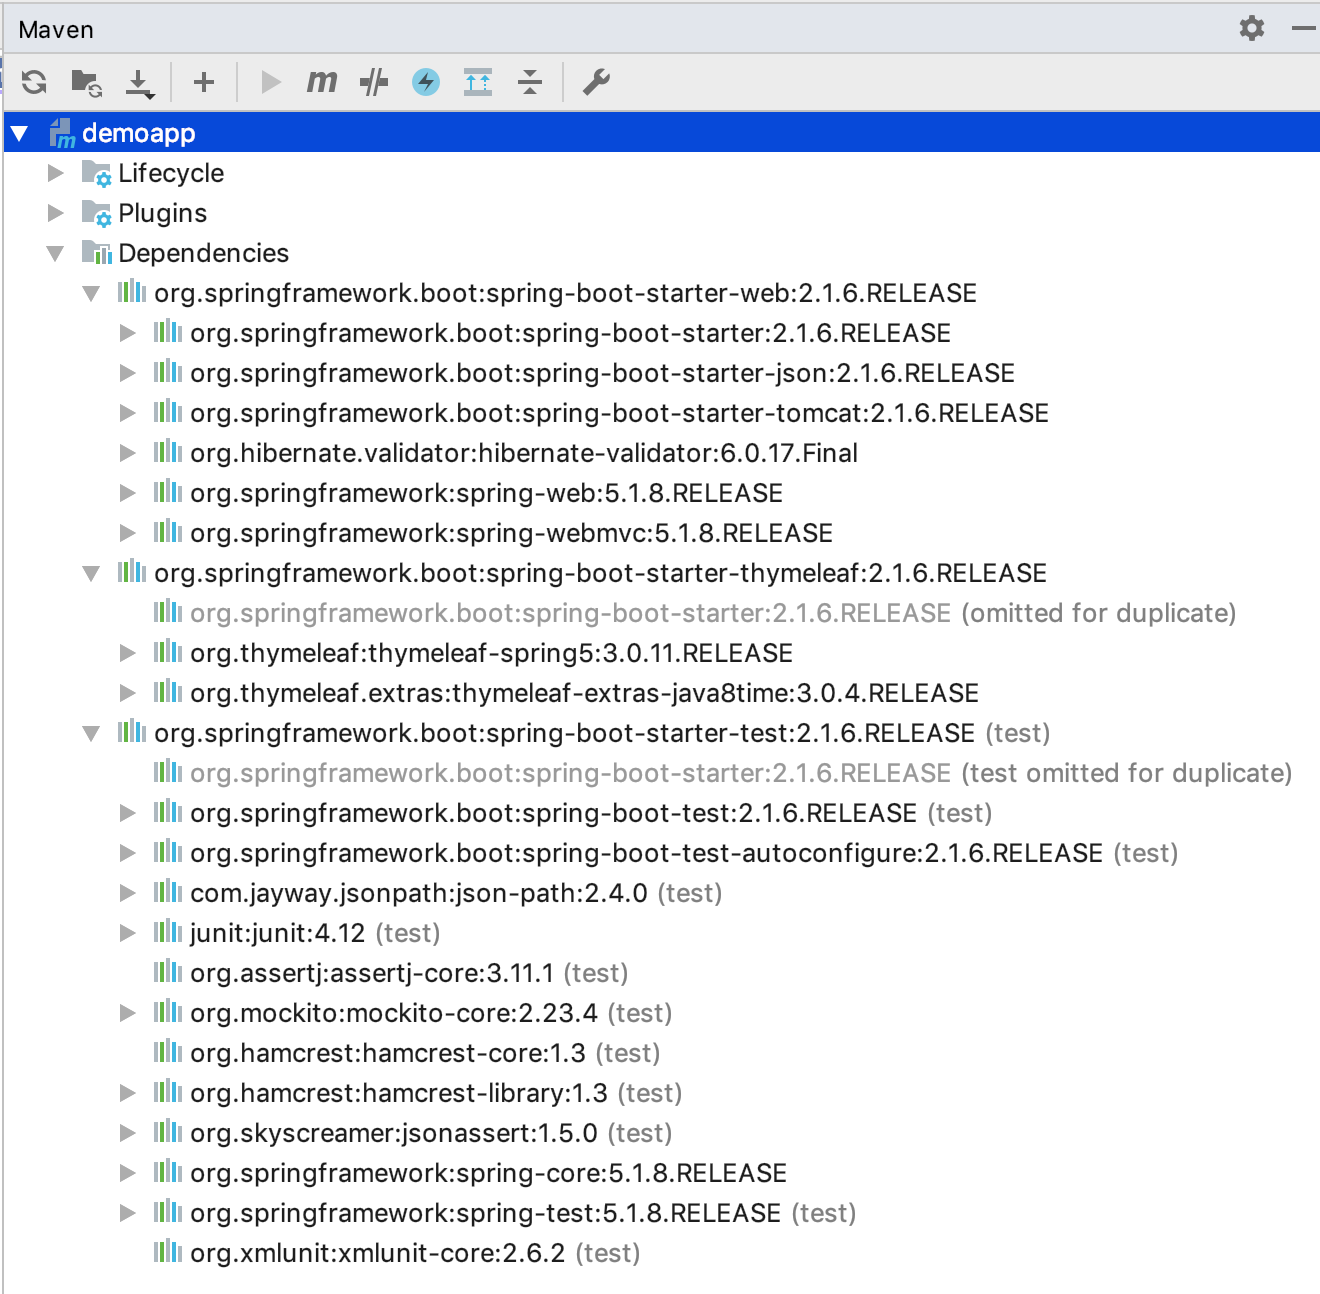
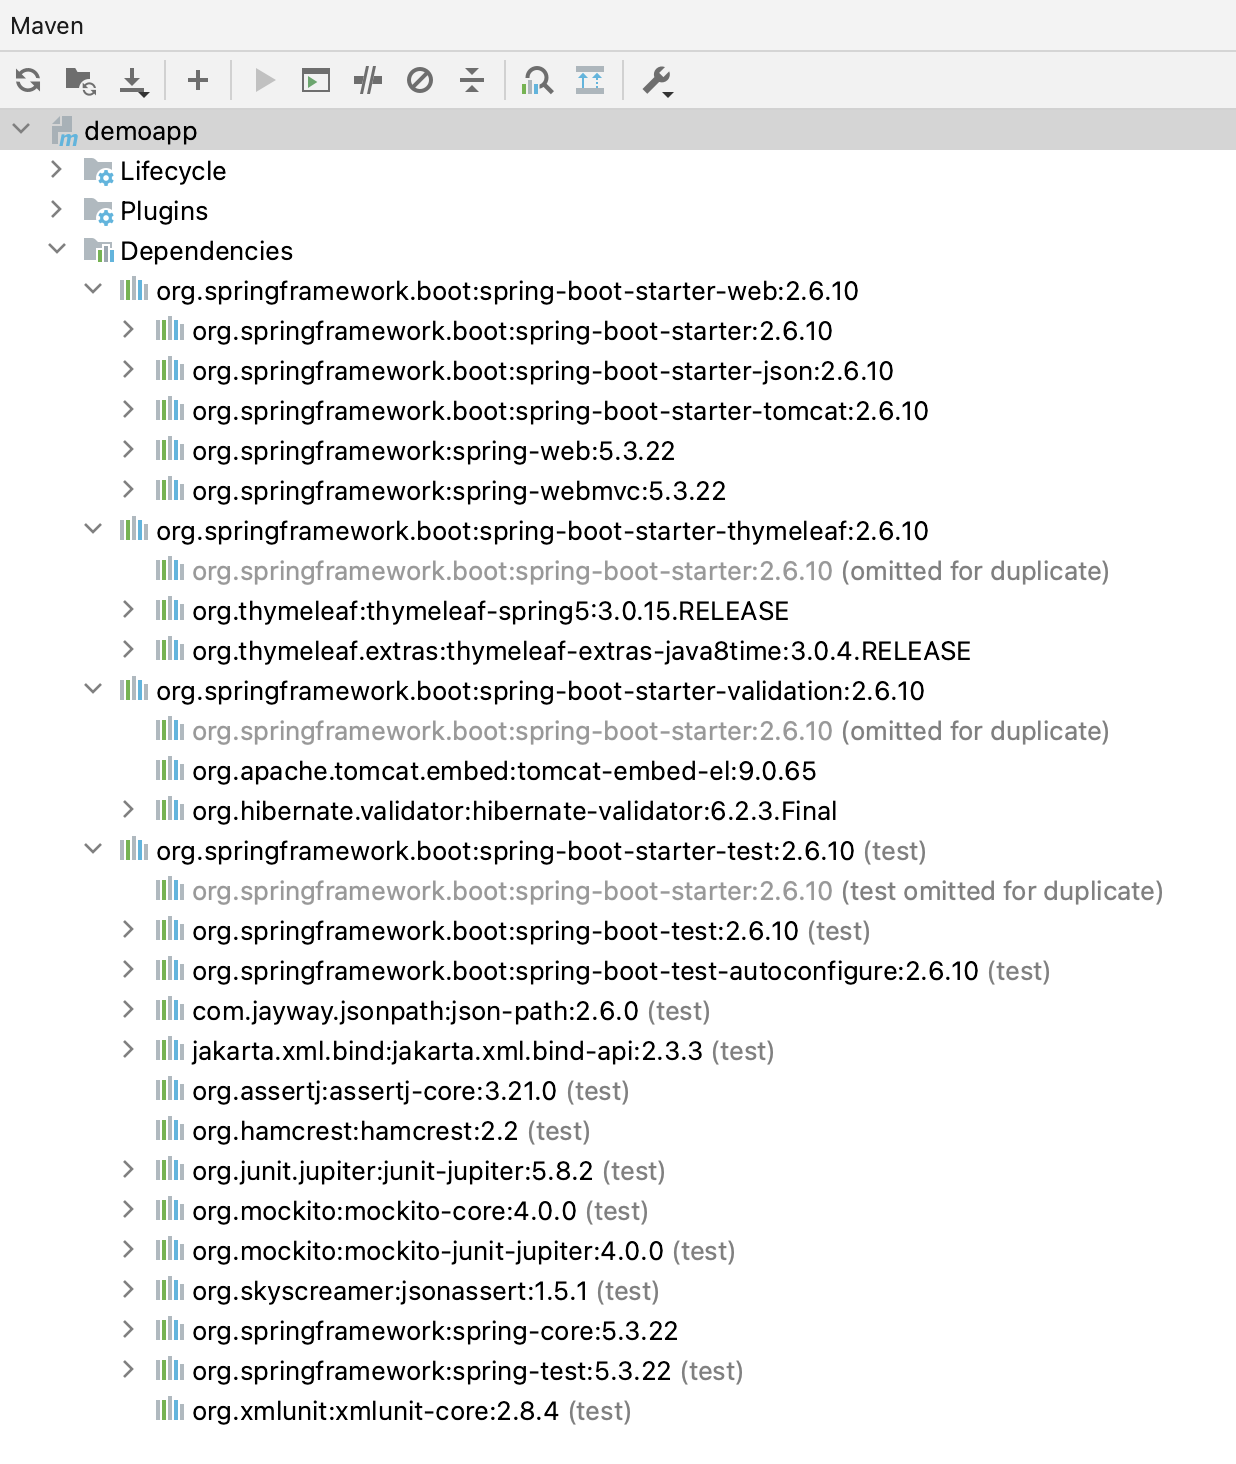
Actualizada la práctica 1

Changed region(s): [[0.0, 0.0, 1.0, 0.9892], [0.9223, 0.0, 1.0, 0.0309]]

diff --git a/docs/01-intro-spring-boot/intro-spring-boot.md b/docs/01-intro-spring-boot/intro-spring-boot.md
@@ -1,8 +1,8 @@
 # Introducción a Spring Boot #
 
-Vamos a trabajar con la versión 2.4.8 de Spring Boot. Se puede
+Vamos a trabajar con la versión 2.6.10 de Spring Boot. Se puede
 consultar toda la documentación oficial sobre esta versión en [este
-enlace](https://docs.spring.io/spring-boot/docs/2.4.8/reference/html/index.html). 
+enlace](https://docs.spring.io/spring-boot/docs/2.6.10/reference/html/index.html). 
 
 ## 1. Aplicación ejemplo ##
 
@@ -65,6 +65,7 @@ siguientes páginas:
 - [http://localhost:8080](http://localhost:8080)
 - [http://localhost:8080/saludo/Pepito](http://localhost:8080/saludo/Pepito)
 - [http://localhost:8080/saludoplantilla/Pepito](http://localhost:8080/saludoplantilla/Pepito)
+- [http://localhost:8080/saludoform](http://localhost:8080/saludoform)
 
 ## 3. Desarrollo y ejecución con IntelliJ ##
 
@@ -74,18 +75,15 @@ pago, es posible [obtener una licencia de
 estudiante](https://www.jetbrains.com/shop/eform/students) usando la
 dirección de correo de la UA.
 
-Para importar un proyecto Spring Boot en IntelliJ basta con
-importar el directorio donde se encuentre el fichero `pom.xml`. Se
+Para abrir un proyecto Spring Boot en IntelliJ basta con
+abrir el directorio donde se encuentre el fichero `pom.xml`. Se
 puede hacer desde la pantalla de bienvenida de IntelliJ con la opción
-**Import Project** o usando la opción **File > New > Project from
-Existing Sources**. Aparecerá la pantalla de importación y
-seleccionamos el importador **Maven**:
+**Open** o usando la opción **File > Open"** o **"File > New > Project from
+Existing Sources**. 
 
-<img src="imagenes/import-intellij.png" width="600px" />
+IntelliJ abre el proyecto correctamente:
 
-IntelliJ importa el proyecto correctamente:
-
-<img src="imagenes/proyecto-desplegado.png" width="300px"/>
+<img src="imagenes/proyecto-desplegado.png" width="350px"/>
 
 Podemos ejecutarlo abriendo un terminal y lanzándolo con Maven. O
 también desde la **configuración de Run** que ha creado IntelliJ al
@@ -105,8 +103,7 @@ aplicación, volverla a lanzar, etc:
 Estructura de directorios típica de los proyectos Java construidos con
 Maven:
 
-<img src="imagenes/estructura-app.png" width="300px"/>
-
+<img src="imagenes/proyecto-desplegado.png" width="350px"/>
 
 El fichero `pom.xml` declara las dependencias. Spring Boot proporciona
 _starters_ que agrupan un conjunto de dependencias comunes.
@@ -115,9 +112,9 @@ _starters_ que agrupan un conjunto de dependencias comunes.
 
 ```xml
 <?xml version="1.0" encoding="UTF-8"?>
-<project xmlns="http://maven.apache.org/POM/4.0.0" 
+<project xmlns="http://maven.apache.org/POM/4.0.0"
          xmlns:xsi="http://www.w3.org/2001/XMLSchema-instance"
-         xsi:schemaLocation="http://maven.apache.org/POM/4.0.0 
+         xsi:schemaLocation="http://maven.apache.org/POM/4.0.0
          https://maven.apache.org/xsd/maven-4.0.0.xsd">
     <modelVersion>4.0.0</modelVersion>
 
@@ -129,7 +126,7 @@ _starters_ que agrupan un conjunto de dependencias comunes.
     <parent>
         <groupId>org.springframework.boot</groupId>
         <artifactId>spring-boot-starter-parent</artifactId>
-        <version>2.1.16.RELEASE</version>
+        <version>2.6.10</version>
     </parent>
 
     <properties>
@@ -147,6 +144,10 @@ _starters_ que agrupan un conjunto de dependencias comunes.
         </dependency>
         <dependency>
             <groupId>org.springframework.boot</groupId>
+            <artifactId>spring-boot-starter-validation</artifactId>
+        </dependency>
+        <dependency>
+            <groupId>org.springframework.boot</groupId>
             <artifactId>spring-boot-starter-test</artifactId>
             <scope>test</scope>
         </dependency>
@@ -157,6 +158,13 @@ _starters_ que agrupan un conjunto de dependencias comunes.
             <plugin>
                 <groupId>org.springframework.boot</groupId>
                 <artifactId>spring-boot-maven-plugin</artifactId>
+            </plugin>
+            <plugin>
+                <groupId>org.apache.maven.plugins</groupId>
+                <artifactId>maven-surefire-plugin</artifactId>
+                <configuration>
+                    <argLine>-Dfile.encoding=UTF8</argLine>
+                </configuration>
             </plugin>
         </plugins>
     </build>
@@ -318,7 +326,8 @@ petición irá en su propio hilo de Java, por lo que múltiples hilos
 podrán estar ejecutando el mismo código del controlador. 
 
 Por ello hay que tener cuidado en **no definir variables de instancia
-mutables (con estado)** dentro del controlador, porque podrían
+mutables (con estado)** dentro del controlador (con excepción de los
+objetos inyectados con la anotación `@Autowired`), porque podrían
 producirse errores debidos a condiciones de carrera (un hilo modifica
 la misma variable que otro está leyendo). Es conveniente que todos los
 _beans_ (controladores, servicios, etc.) sean objetos sin estado.
@@ -392,9 +401,137 @@ public class SaludoControllerPlantilla {
 }
 ```
 
+### Formularios y validación ###
+
+Spring Boor simplifica la declaración y validación de formularios
+usando clases Java que trabajan como modelos del formulario. Por
+ejemplo, en la aplicación se define la clase `UserData`:
+
+**Fichero `src/main/java/demoapp/controller/UserData.java`**
+
+```java
+package demoapp.controller;
+
+import javax.validation.constraints.Size;
+
+public class UserData {
+    @Size(min=3, max=30)
+    String nombre;
+
+    public void setNombre(String nombre) {
+        this.nombre = nombre;
+    }
+
+    public String getNombre() {
+        return nombre;
+    }
+}
+```
+
+Se trata de un objeto con el campo `nombre` de tipo `String` al que se
+le ha añadido una anotación de validación `@Size` con el tamaño mínimo y
+máximo que debe tener.
+
+Puedes encontrar más información sobre otros atributos de validación
+en [este enlace](https://www.baeldung.com/javax-validation).
+
+El formulario HTML propiamente dicho se define con una plantilla
+thymeleaf en la que se declara un objeto que tiene el mismo nombre que
+el nombre de la clase modelo, pero con la primera letra en
+minúscula. En nuestro caso la clase modelo es `UserData`, por lo que el objeto
+del formulario debe llamarse `userData`. En el formulario podemos usar
+cualquier campo definido en el objeto modelo. En nuestro caso usamos
+el único campo de tipo `String`, `nombre`.
+
+**Fichero `src/main/resources/templates/formRegistro.html`**
+
+```html
+<!DOCTYPE HTML>
+<html xmlns:th="http://www.thymeleaf.org">
+<body>
+<form th:action="@{/saludoform}" th:object="${userData}" method="post">
+    <table>
+        <tr>
+            <td>Nombre:</td>
+            <td><input type="text" th:field="*{nombre}" /></td>
+            <td th:if="${#fields.hasErrors('nombre')}" th:errors="*{nombre}"></td>
+        </tr>
+        <tr>
+            <td><button type="submit">Enviar</button></td>
+        </tr>
+    </table>
+</form>
+</body>
+</html>
+```
+
+Se define una acción que enviará una petición `POST` a la URL
+`/saludoform` con los datos del formulario. En este caso el nombre.
+
+Por último, el controller que lanza el formulario y el que recibe la
+petición `POST` con los datos introducidos se definen en el siguiente
+fichero:
+
+**Fichero `src/main/java/demoapp/controller/SaludoControllerForm.java`**
+
+```java
+package demoapp.controller;
+
+import demoapp.service.SaludoService;
+import org.springframework.beans.factory.annotation.Autowired;
+import org.springframework.stereotype.Controller;
+import org.springframework.ui.Model;
+import org.springframework.validation.BindingResult;
+import org.springframework.web.bind.annotation.*;
+
+import javax.validation.Valid;
+
+@Controller
+public class SaludoControllerForm {
+
+    private final SaludoService service;
+
+    @Autowired
+    public SaludoControllerForm(SaludoService service) {
+        this.service = service;
+    }
+
+    @GetMapping("/saludoform")
+    // Hay que declarar un parámetro con el tipo usado en el modelo del formulario (UserData)
+    public String saludoForm(UserData userData) {
+        return "formRegistro";
+    }
+
+    @PostMapping("/saludoform")
+    public String checkPersonInfo(@ModelAttribute @Valid UserData userData, BindingResult bindingResult, Model model) {
+        if (bindingResult.hasErrors()) {
+            return "formRegistro";
+        }
+        model.addAttribute("mensaje", service.saluda(userData.getNombre()));
+        return "saludo";
+    }
+}
+```
+
+El método que recibe la petición en `/saludoform` simplemente devuelve
+la plantilla con el formulario. 
+
+Y el método que recibe los datos es el que responde a la petición
+`POST` en la URL `/saludoform` recibe los datos del formulario en un
+objeto Java del tipo del modelo del formulario (el parámetro
+`userData`). Las anotaciones `@ModelAttribute` y `@Valid` indican que
+es un objeto recogido en el formulario sobre el que se ha realizado
+una validación. Se detecta si ha habido algún error en el método
+`hasErrors()` del `bindingResult` que se recibe también como
+parámetro. 
+
+Si ha habido error, se vuelve a devolver el formulario para
+que se vuelva a completar. Si no ha habido error se obtiene el nombre
+introducido en el formulario y se pasa a la plantilla del saludo.
+
 ### Tests ###
 
-En Spring Boot 2.4 se usa JUnit 5 como librería de tests.
+A partir de Spring Boot 2.4 se usa JUnit 5 como librería de tests.
 
 En la aplicación de demostración hay varios ejemplos que muestran
 posibles formas de realizar pruebas en una aplicación Spring Boot.
@@ -587,8 +724,10 @@ rápidas en la web de Spring, en la url
 En concreto, hemos usado las siguientes referencias para construir
 esta primera aplicación ejemplo:
 
-- Getting Started Guide [Building an Application with Spring Boot](https://spring.io/guides/gs/spring-boot/)
-- Getting Started Guide [Serving Web Content with Spring MVC](https://spring.io/guides/gs/serving-web-content/)
-- Spring Boot Reference Guide 2.4.8
-  ([HTML](https://docs.spring.io/spring-boot/docs/2.4.8/reference/htmlsingle/), [PDF](https://docs.spring.io/spring-boot/docs/2.4.8/reference/pdf/spring-boot-reference.pdf))
+- [Building an Application with Spring Boot](https://spring.io/guides/gs/spring-boot/)
+- [Serving Web Content with Spring  MVC](https://spring.io/guides/gs/serving-web-content/)
+- [Handling Form Submission](https://spring.io/guides/gs/handling-form-submission/)
+- [Validating Form Input](https://spring.io/guides/gs/validating-form-input/)
+- Spring Boot Reference Guide 2.6.10
+  ([HTML](https://docs.spring.io/spring-boot/docs/2.6.10/reference/htmlsingle/), [PDF](https://docs.spring.io/spring-boot/docs/2.6.10/reference/pdf/spring-boot-reference.pdf))
   
